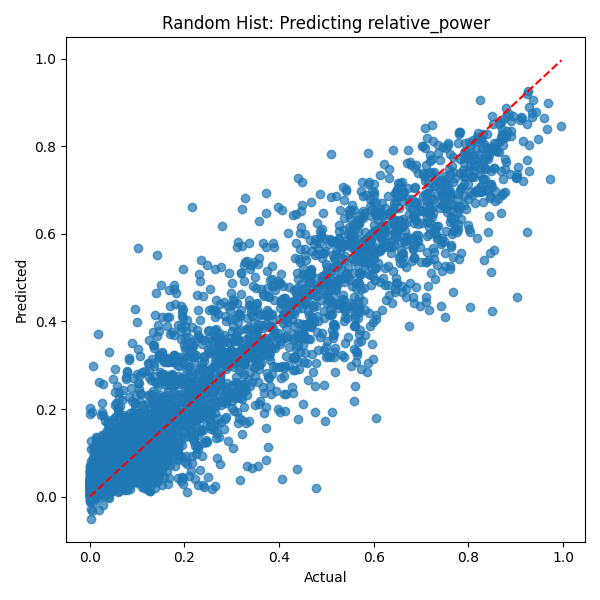
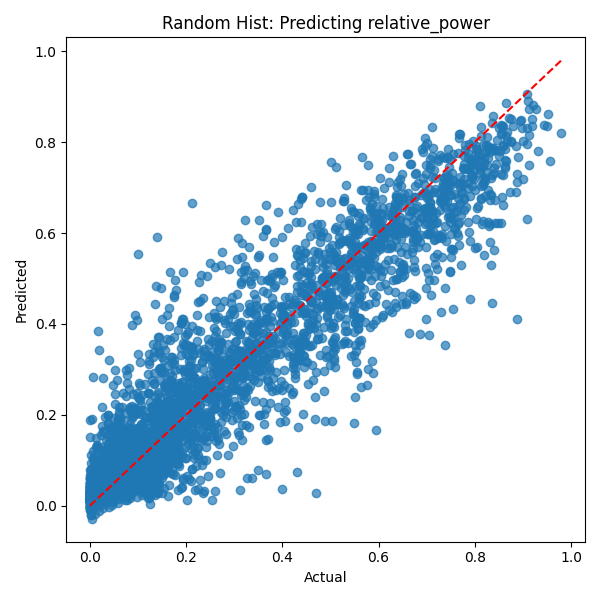
add values R^2 = 0.89

diff --git a/solar_energy_forecast/preprocess.py b/solar_energy_forecast/preprocess.py
@@ -7,6 +7,7 @@ def get_data(verbose: bool = False) -> pd.DataFrame:
     df_solar = get_solar_data(verbose)
     df_weather = get_weather_data(verbose)
     df = df_pv.join(df_solar, how='inner').join(df_weather, how='inner')
+    df = (df - df.min()) / (df.max() - df.min())
     if verbose:
         print("\n## Complete Dataset:")
         print(df.info())
@@ -42,6 +43,13 @@ def get_solar_data(verbose: bool = False) -> pd.DataFrame:
 # Create sine and cosine representations for capturing daily cycles
     df_solar['sin_time'] = np.sin(2 * np.pi * df_solar['fractional_time'] / 24)
     df_solar['cos_time'] = np.cos(2 * np.pi * df_solar['fractional_time'] / 24)
+    df_solar['clear_sky_index_GHI'] = df_solar['GHI'] / df_solar['Clearsky GHI'].replace(0, np.nan)
+    df_solar['clear_sky_index_GHI'].fillna(0, inplace=True)
+
+# 4. Irradiance Loss Ratio:
+# Proportion of lost irradiance relative to the clear-sky condition
+    df_solar['irradiance_loss_ratio'] = (df_solar['Clearsky GHI'] - df_solar['GHI']) / df_solar['Clearsky GHI'].replace(0, np.nan)
+    df_solar['irradiance_loss_ratio'].fillna(0, inplace=True)
     df_solar['date_time'] = pd.to_datetime(df_solar[['Year', 'Month', 'Day', 'Hour', 'Minute']])
     df_solar.drop(columns=['Year', 'Month', 'Day', 'Hour', 'Minute'], inplace=True)
     df_solar = df_solar.set_index('date_time').sort_index()

diff --git a/main.py b/main.py
@@ -45,6 +45,7 @@ def main():
     plt.savefig('output/Tree.png')
     plt.clf()
 
+
     # Print metrics
     print(f'R² Score: {r2_score(y_test, y_pred):.3f}')
     print(f'Mean Squared Error: {mean_squared_error(y_test, y_pred):.3f}')
